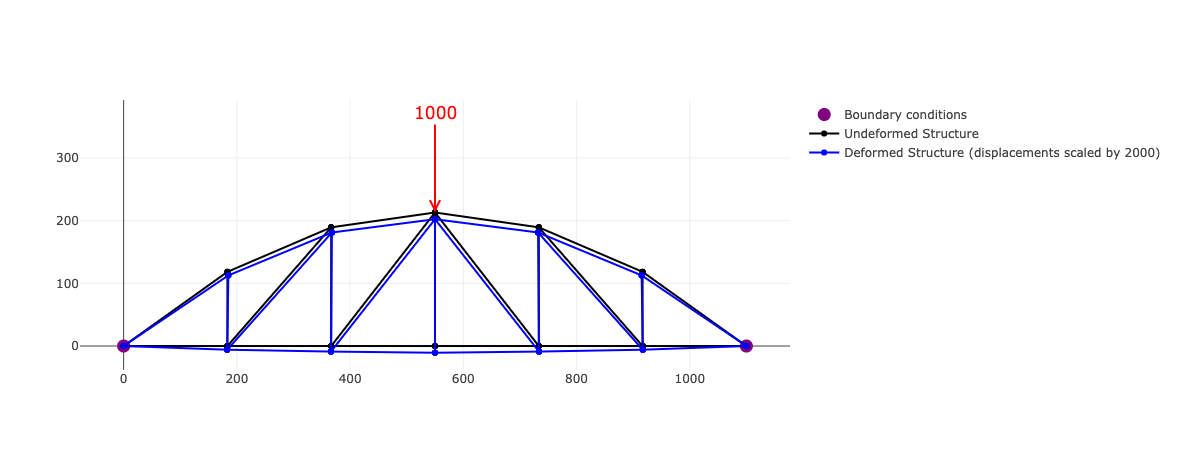
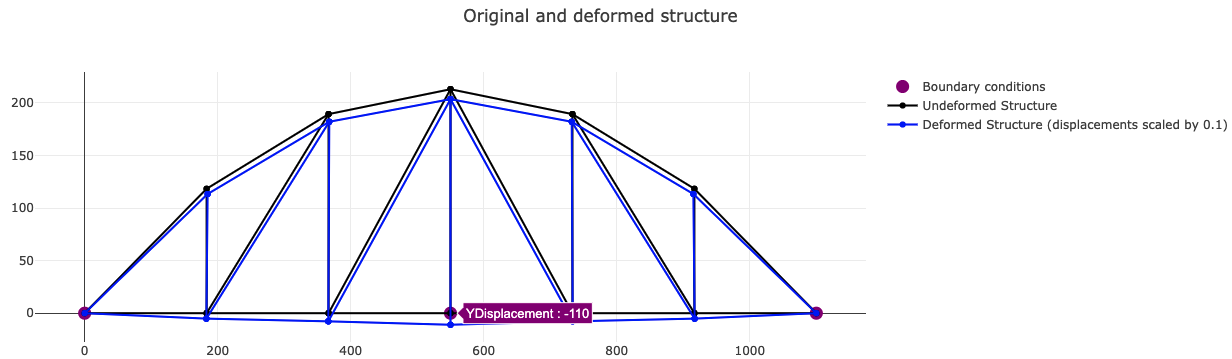
images

diff --git a/src/tests/bridgeModal.ts b/src/tests/bridgeModal.ts
@@ -57,12 +57,12 @@ export function BridgeModal () {
         for (let i = 2; i <= 4; i++) {
             new Element(elementType, archNodes[i], floorNodes[i + 2], properties, p)
         }
-        new BoundaryCondition(floorNodes[0], 'RollerX', p)
-        new BoundaryCondition(floorNodes[6], 'Pin', p)
+        new BoundaryCondition(floorNodes[0], 'Pin', p)
+        new BoundaryCondition(floorNodes[6], 'RollerX', p)
     }
 
     pDynamic.solveModal()
-    const displacementScale = 35
+    const displacementScale = 100
     pDynamic.plotModeOfVibration(0, displacementScale)
 
     console.log('ok')

diff --git a/src/tests/bridgeStatic.ts b/src/tests/bridgeStatic.ts
@@ -54,8 +54,8 @@ export function BridgeStatic () {
     for (let i = 2; i <= 4; i++) {
         new Element(elementType, archNodes[i], floorNodes[i + 2], properties, p)
     }
-    new BoundaryCondition(floorNodes[0], 'RollerX', p)
-    new BoundaryCondition(floorNodes[6], 'Pin', p)
+    new BoundaryCondition(floorNodes[0], 'Pin', p)
+    new BoundaryCondition(floorNodes[6], 'RollerX', p)
     new BoundaryCondition(floorNodes[3], 'YDisplacement', p, -L / 10)
 
     p.solve()

diff --git a/src/index.ts b/src/index.ts
@@ -9,9 +9,9 @@ import { TrussAxialImpact } from './tests/trussAxialImpact'
 
 // Tests
 // StaticTruss()
-// BridgeStatic()
-// TrussAxialImpact()
-// FallingBeam()
+BridgeStatic()
+TrussAxialImpact()
+FallingBeam()
 BeamModal()
-// BridgeModal()
+BridgeModal()
 console.log()

diff --git a/README.md b/README.md
@@ -1,6 +1,7 @@
 # PoliFEM
 <img src="modal.png" width="800">
 <img src="static.png" width="800">
+<img src="load.png" width="800">
 
 ## About
 Static and dynamic (modal and time history) Finite Element Solver for frames, beams and truss structures.
